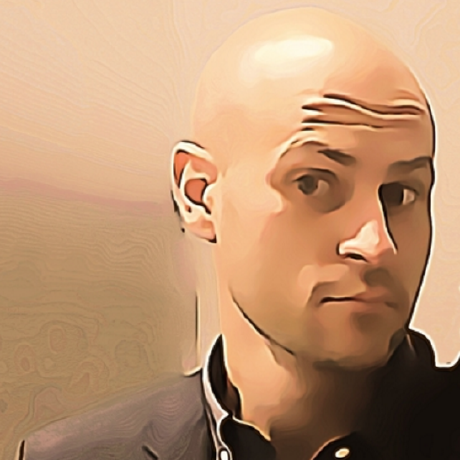
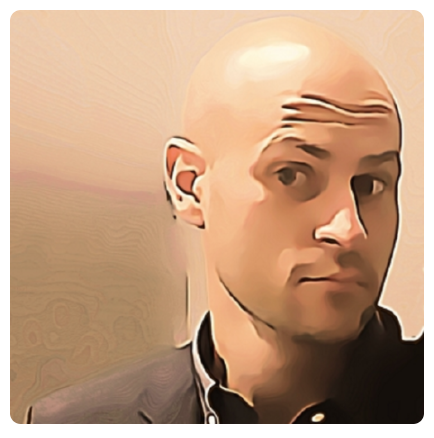
Cleanup profile image

diff --git a/README.md b/README.md
@@ -1,5 +1,5 @@
 <p align="center">
-  <img alt="Profile Image Oleg Shalygin" style="border: 3px solid; border-radius: 15px;" src="docs/oleg_shalygin.png" height="140" />
+  <img alt="Profile Image Oleg Shalygin" src="docs/oleg_shalygin.png" height="100" />
   <h3 align="center">Oleg Shalygin</h3>
   <p align="center">Personal Website</p>
   <p align="center">
